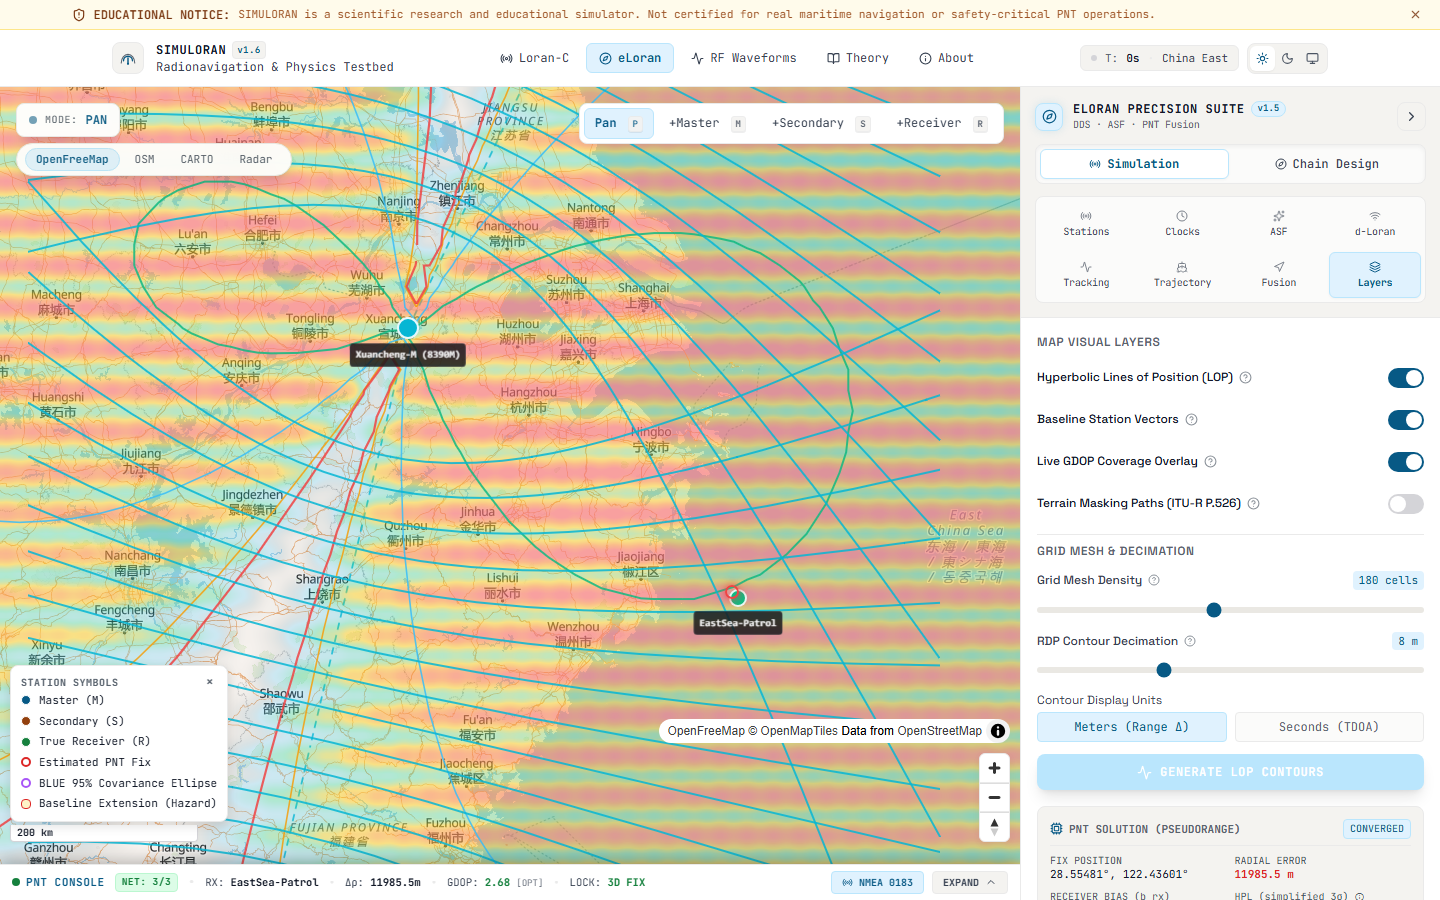
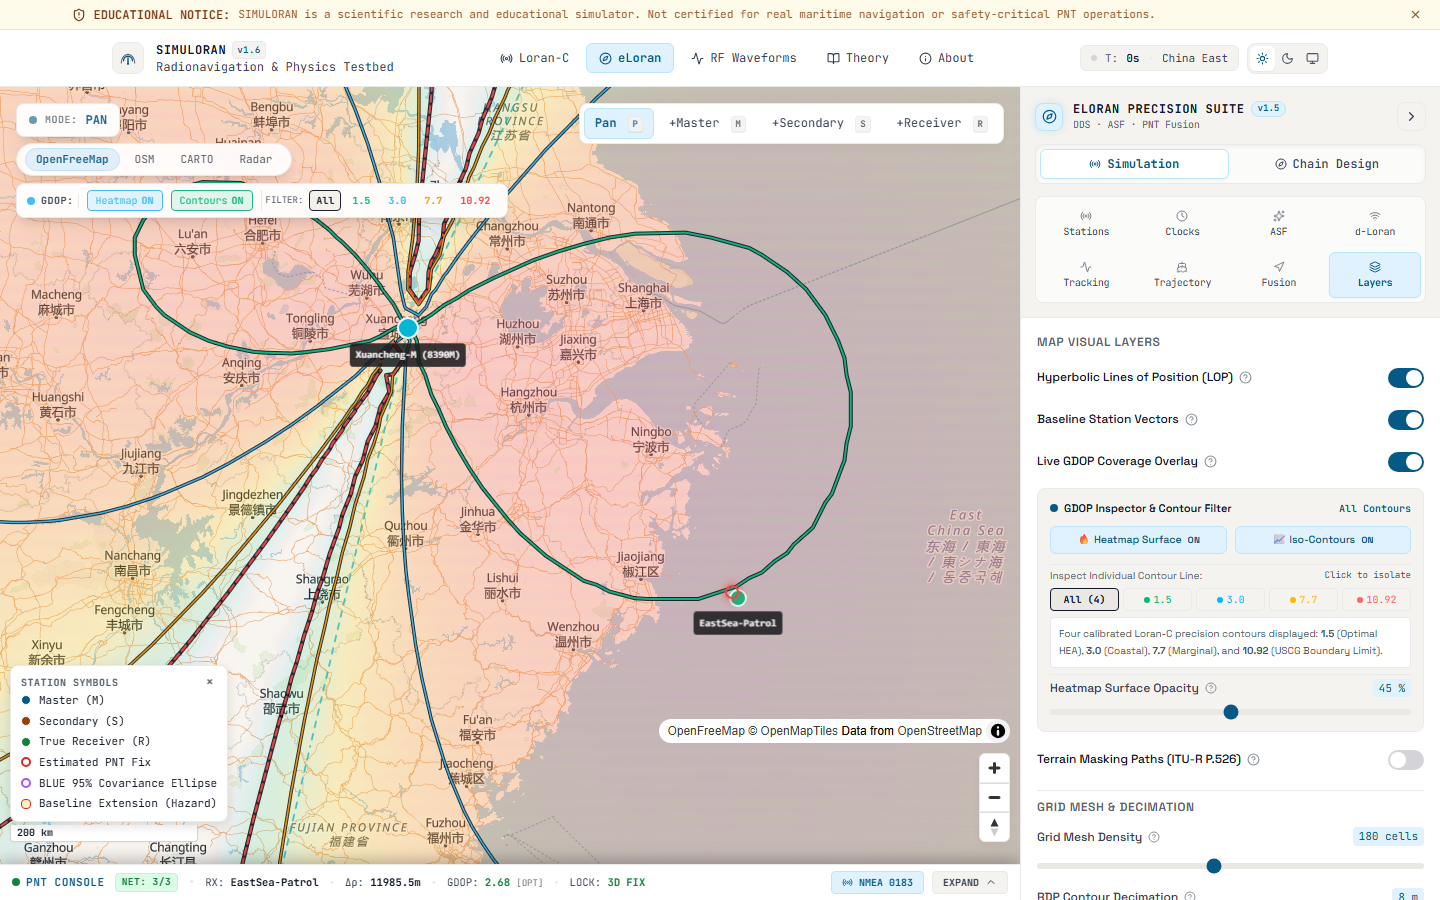
docs: update README and visual guide with static GDOP coverage and inspector controls

diff --git a/e2e/capture-user-guide.spec.js b/e2e/capture-user-guide.spec.js
@@ -121,20 +121,28 @@ test.describe('SimuLoran - Visual User Guide & High-Resolution Layout Capture', 
     // Switch to Layers tab
     const layersTab = page.locator('button[aria-label="Layers"]');
     await layersTab.click();
-    await page.waitForTimeout(1000);
+    await page.waitForTimeout(800);
 
     // Ensure Live GDOP Coverage Overlay is enabled
-    const gdopToggle = page.locator('input[type="checkbox"]').filter({ hasText: /GDOP/i }).or(page.locator('label:has-text("Live GDOP Coverage Overlay")'));
-    if (await gdopToggle.count() > 0) {
-      await gdopToggle.first().click().catch(() => {});
+    const gdopLabel = page.locator('label:has-text("Live GDOP Coverage Overlay")');
+    const gdopCheckbox = gdopLabel.locator('input[type="checkbox"]');
+    const isChecked = await gdopCheckbox.isChecked();
+    if (!isChecked) {
+      await gdopLabel.click();
+      await page.waitForTimeout(1500);
     }
 
-    // Trigger contour generation across China East Sea
-    const genBtn = page.locator('button:has-text("Generate LOP Contours")');
-    if (await genBtn.count() > 0) {
-      await genBtn.click();
-      await page.waitForTimeout(3500);
-    }
+    // Scroll the drawer panel to top so the inspector card and buttons are fully visible
+    await page.evaluate(() => {
+      const scrollable = document.querySelector('.overflow-y-auto');
+      if (scrollable) scrollable.scrollTop = 0;
+    });
+
+    // Wait for GDOP worker computation and MapLibre layers
+    await page.waitForFunction(() => {
+      return Boolean(window.__gdopGeoJson && window.__gdopContoursGeoJson);
+    }, { timeout: 12000 }).catch(() => {});
+    await page.waitForTimeout(2000);
 
     await ensureMapReady(page);
     await page.screenshot({ path: 'docs/assets/screenshots/07_gdop_heatmap_contours.png' });

diff --git a/README.md b/README.md
@@ -38,7 +38,7 @@ SimuLoran provides a high-density, professional dark-mode maritime radio-navigat
 
 [![Real-Time GDOP Heatmap Contours](docs/assets/screenshots/07_gdop_heatmap_contours.png)](docs/VISUAL_USER_GUIDE.md#6-geometric-dilution-of-precision-gdop-contours)
 
-*Real-time multi-station GDOP and HDOP coverage contour rasterization across the East China Sea basin computed via an off-thread Web Worker (180 cells grid density, 8 m RDP contour decimation). Renders Jet colormap contours with configurable operational threshold isolines (GDOP ≤ 1.5, 3.0, 5.0) and live convergence telemetry. [Read detailed guide →](docs/VISUAL_USER_GUIDE.md#6-geometric-dilution-of-precision-gdop-contours)*
+*Real-time multi-station GDOP and HDOP coverage contour rasterization across the East China Sea basin computed via an off-thread Web Worker (180 cells grid density, 8 m RDP contour decimation). Features geographically static coverage domains strictly anchored to transmitter baseline geometry, eliminating viewport scaling distortion during zoom/pan. Incorporates high-contrast cased vector contours, independent layer toggles (`🔥 Heatmap Surface` / `📈 Iso-Contours`), continuous opacity control, and dedicated inspection buttons for individual operational standards: Optimal HEA (GDOP ≤ 1.5), Coastal Navigation (GDOP ≤ 3.0), Ocean En-Route (GDOP ≤ 7.7), and USCG Specification Limit (GDOP ≤ 10.92, dashed). [Read detailed guide →](docs/VISUAL_USER_GUIDE.md#6-geometric-dilution-of-precision-gdop-contours)*
 
 ---
 
@@ -178,23 +178,38 @@ simuloran/
 ### 3. Cycle Slip Modeling (Boyce 2006)
 Simulates wrong-cycle selection where degraded SNR or skywave interference shifts the tracking point away from the 3rd zero crossing, introducing integer ±10 µs (~3 km) step errors.
 
+### 4. Geographically Static GDOP Coverage & Iso-Contour Inspector
+- **Transmitter Geometry Anchoring**: The GDOP calculation domain is strictly derived from the physical positions of the active master and secondary transmitters plus a calibrated baseline buffer ($[\min(\text{stations}) - 40\%, \max(\text{stations}) + 40\%]$). Completely decoupled from the camera viewport, preventing the calculation bounding box from expanding across continents or re-triggering worker jobs upon map zoom or pan.
+- **Off-Thread Matrix Evaluation & Navigable Clamping**: Evaluates direction cosines and the hyperbolic geometry $\mathbf{H}$-matrix across ~18,000 grid samples in `physicsWorker.js`. Grid points exceeding $\text{GDOP} > 15.0$ are strictly masked, eliminating phantom continent-wide haze outside the valid hyperbolic fix area.
+- **Anti-Clipping Cased Contours**: Vector isolines are drawn with a dedicated dark under-casing (`#030712`) and zero blur (`line-blur: 0`), providing razor-sharp optical contrast over both light/dark basemaps and colorful heatmap gradients without blurring or clipping into the background.
+- **Independent Component Separation**:
+  - **`🔥 Heatmap Surface`**: Independent toggle for continuous Jet-gradient precision dilution raster.
+  - **`📈 Iso-Contours`**: Independent toggle for threshold vector lines.
+  - **Surface Opacity Slider**: Continuous adjustment from 10% to 80% opacity.
+- **Dedicated Operational Standard Buttons**:
+  - `[All (4)]`: Displays all 4 operational contours simultaneously.
+  - `[🟢 1.5 HEA]`: Isolates Optimal Fix geometry ($\text{GDOP} \le 1.5$, Harbor Entrance and Approach standard).
+  - `[🔵 3.0 Coastal]`: Isolates Good Fix geometry ($\text{GDOP} \le 3.0$, Coastal Navigation standard).
+  - `[🟡 7.7 Ocean]`: Isolates Marginal Fix geometry ($\text{GDOP} \le 7.7$, Ocean En-Route standard).
+  - `[🔴 10.92 USCG Limit]`: Isolates the USCG Specification Boundary ($\text{GDOP} \le 10.92$, dashed).
+- **Dual Access Points & Zero-Latency WebGL Filtering**: Quick-access on-map floating HUD pill (`data-testid="gdop-inspector-pill"`) and full Console Drawer Layers Panel (`data-testid="gdop-inspector-card"`). Interactive filtering and visibility toggles execute in 0 ms via MapLibre WebGL paint/filter properties with zero worker re-evaluations.
 
-### 4. Live Additional Secondary Factor (ASF) Heatmap Layer
+### 5. Live Additional Secondary Factor (ASF) Heatmap Layer
 - **Dual Physical Quantity Overlay**: Switchable between propagation delay ($\mu\text{s}$, $0\text{–}3\ \mu\text{s}$ dynamic range mapped to Jet colormap) and groundwave field attenuation ($\text{dB}$, $0\text{–}60\text{ dB}$ loss mapped to Viridis colormap).
 - **Asynchronous Worker Rendering**: Utilizes `gridWorker.js` with transferable `Float32Array` memory buffers for smooth, debounced (300 ms) parameter updates without UI stutter.
 - **Iso-Contour Overlays**: Canvas-rendered equi-delay (0.5 µs) and equi-attenuation (10 dB) contour rings with configurable layer opacity (0–100%) and grid resolution (20×20 to 80×80).
 
-### 5. Receiver Tracking Loop Simulation (PLL & DLL)
+### 6. Receiver Tracking Loop Simulation (PLL & DLL)
 - **Standard Zero Crossing (SZC) Tracking**: Closed-loop simulation tracking the 3rd positive-going zero crossing (30 µs) using the 15 µs ratio test ($e(15)/e(30) \approx 0.397$).
 - **State Machine Architecture**: Real-time transition between `ACQUIRING` (phase-lock search), `LOCKED` (sub-microsecond tracking jitter via Rhee et al. 2021 noise model), and `CYCLE_SLIP` states.
 - **Envelope-to-Cycle Difference (ECD) Sparkline**: 50-GRI rolling time-history chart displaying microsecond tracking error, phase jitter, and cycle slip events.
 
-### 6. Station Failure & Constellation Integrity
+### 7. Station Failure & Constellation Integrity
 - **Per-Transmitter Operating Modes**: Real-time toggling of stations between `NOMINAL`, `DEGRADED` (inflated observation noise simulating aging transmitters), and `FAILED` (complete transmitter loss).
 - **Dynamic GDOP Matrix Exclusion**: Failed stations are dynamically dropped from the geometry $\mathbf{H}$-matrix with warning indicators when fewer than 2 secondaries remain (hyperbolic fix degenerate).
 - **Hazard Coverage Overlay**: Automatically renders a 250 km hatched red loss-of-coverage exclusion circle centered on failed transmitters.
 
-### 7. Multi-Sensor GNSS / eLoran BLUE Fusion & Error Ellipses
+### 8. Multi-Sensor GNSS / eLoran BLUE Fusion & Error Ellipses
 **Best Linear Unbiased Estimator (BLUE)**: Fuses independent eLoran and GNSS positioning solutions via inverse-covariance weighting:
 
 $$
@@ -204,7 +219,7 @@ $$
 - **$2.45\sigma$ (95% Confidence) Covariance Ellipses**: Renders bivariate Gaussian error ellipses on the map for eLoran (cyan), GNSS (emerald/amber/red based on spoof/jam status), and Fused (purple) solutions.
 - **Aviation Horizontal Protection Level (HPL)**: Continuous HPL calculation with real-time RNAV RNP 0.3 (556 m) and APV approach (40 m) alert limit threshold compliance gauges.
 
-### 8. Terrain Masking & Knife-Edge Obstacle Diffraction (ITU-R P.526)
+### 9. Terrain Masking & Knife-Edge Obstacle Diffraction (ITU-R P.526)
 - **Great-Circle Elevation Profiles**: Evaluates deterministic offline regional terrain geomorphology profiles between transmitter towers and receiver antennas with zero remote API latency or network timeouts.
 - **Fresnel-Kirchhoff Diffraction Engine**: Evaluates clearance parameter $v$ and calculates knife-edge path loss $J(v)$ using the Nurul-Saunders piecewise approximation, estimating excess diffracted propagation delay $\tau_{\text{excess}}$.
 - **Vector Map Visualization**: Highlights clear paths in solid emerald green and obstructed links (>15 dB loss) in dashed high-visibility red.
@@ -212,16 +227,16 @@ $$
 ---
 
 
-### 9. Software-Defined Radio (SDR) Baseband & Web Worker DSP
+### 10. Software-Defined Radio (SDR) Baseband & Web Worker DSP
 - **100 kHz Baseband Synthesizer**: Generates synthetic, phase-coded I/Q time-domain baseband samples directly in a dedicated background Web Worker (`sdrWorker.js`).
 - **Interactive Oscilloscope & Spectral Waterfall**: 60 FPS hardware-accelerated canvas waterfall display with dual-trace Digital Storage Oscilloscope (DSO) and matched filter envelope detection.
 - **Synthetic Audio Demodulation**: Listen to simulated receiver audio outputs across variable SNR conditions with zero DOM-thread blocking.
 
-### 10. Offline Elevation & Topographic Modeling
+### 11. Offline Elevation & Topographic Modeling
 - **Deterministic Offline Terrain**: Generates realistic coastal terrain profiles using multi-octave Perlin-Simplex synthesis, providing 100% offline capability without external digital elevation model (DEM) tile dependencies.
 - **Fresnel Clearance & Path Profiling**: Live visualization of the 1st Fresnel zone clearance ellipse between any transmitter and receiver pair.
 
-### 11. Desktop Electron & Production Containerization
+### 12. Desktop Electron & Production Containerization
 - **Cross-Platform Desktop App**: Packaged with Electron 33 providing native window frame controls, offline operation, and field-ready telemetry displays.
 - **Hardened Container Runtime**: Multi-stage Dockerfile and Docker Compose orchestration serving an immutable, high-security Nginx web environment.
 

diff --git a/docs/VISUAL_USER_GUIDE.md b/docs/VISUAL_USER_GUIDE.md
@@ -138,16 +138,28 @@ Custom transmitters can be engineered or edited directly on the map or via the *
 
 ## 6. Geometric Dilution of Precision (GDOP) Contours
 
-Activating the **Layers Tab** enables real-time spatial coverage and precision mapping across the maritime theater.
+Activating the **Layers Tab** or clicking the floating **GDOP HUD Ribbon** enables real-time spatial coverage and precision mapping across the maritime theater.
 
 [![GDOP Heatmap Coverage Contours](assets/screenshots/07_gdop_heatmap_contours.png)](assets/screenshots/07_gdop_heatmap_contours.png)
 
-### Heatmap Interpretation (East China Sea Basin)
-- **Green / Cyan (GDOP < 2.0)**: Optimal station geometry. Lines of position intersect near orthogonal angles (~90°), providing optimal fix accuracy across the core navigation approaches.
-- **Yellow / Orange (2.0 <= GDOP <= 5.0)**: Acceptable navigation geometry. Typical for mid-range marine coverage along the coastal boundaries.
-- **Red / Magenta (GDOP > 10.0)**: Severe geometric degradation. Occurs near baseline extensions and outer chain perimeters.
-- **Grid Density & Decimation Controls**: Real-time slider adjustment for Grid Mesh Density (180 cells) and Ramer-Douglas-Peucker (RDP) contour decimation (8 m) with selectable units (Meters Range Δ or Seconds TDOA).
-- **Coverage Masking**: Areas where received signal strength falls below receiver sensitivity (-10 dBµV/m) or where SNR < -20 dB are automatically blanked.
+### Geographically Static Coverage & Geometry Anchoring
+- **Fixed Station Geometry Domain**: The GDOP calculation bounding box is strictly anchored to the physical positions of the transmitters plus a 40% baseline margin. It never expands or recalculates when you zoom out or pan, preventing distortion or continent-wide phantom haze.
+- **Navigable Area Clamping**: Grid points are clamped to $\text{GDOP} \le 15.0$, cleanly blanking un-navigable regions outside operational coverage.
+- **Anti-Clipping Cased Contours**: Vector lines feature a dark `#030712` under-casing and zero blur (`line-blur: 0`), delivering maximum contrast against both light and dark basemaps.
+
+### Independent Layer Controls & Individual Contour Inspection
+- **Independent Component Toggles**:
+  - **`🔥 Heatmap Surface [ON/OFF]`**: Toggle the continuous Jet gradient surface independently of the isolines.
+  - **`📈 Iso-Contours [ON/OFF]`**: Toggle the vector boundary lines.
+  - **Surface Opacity Slider**: Adjust heatmap opacity continuously from 10% to 80% (default: 45%).
+- **Dedicated Inspection Buttons (Click to Isolate)**:
+  - `[All (4)]`: Displays all 4 operational contours simultaneously.
+  - `[🟢 1.5 HEA]`: Optimal Fix ($\text{GDOP} \le 1.5$, IMO/USCG Harbor Entrance and Approach standard).
+  - `[🔵 3.0 Coastal]`: Good Fix ($\text{GDOP} \le 3.0$, Coastal Navigation standard).
+  - `[🟡 7.7 Ocean]`: Marginal Fix ($\text{GDOP} \le 7.7$, Ocean En-Route standard).
+  - `[🔴 10.92 USCG Limit]`: USCG Specification Boundary ($\text{GDOP} \le 10.92$, dashed).
+- **Dual Access Points**: Access controls via the **Console Drawer Layers Tab** (`data-testid="gdop-inspector-card"`) or directly via the **Floating Map HUD Ribbon** (`data-testid="gdop-inspector-pill"`).
+- **Zero-Latency WebGL Filtering**: Switching levels or toggling visibility applies directly to MapLibre WebGL layer properties with 0 ms latency, without re-running any background worker computation.
 
 > [!NOTE]
 > The GDOP rasterizer runs asynchronously in an off-thread Web Worker, guaranteeing smooth 60 FPS map panning and zooming without blocking the main browser thread.
@@ -362,9 +374,10 @@ Exhibits empirical benchmarks validating Simuloran against real-world experiment
 5. Inspect the patrol vessel icon on the map to view real-time horizontal coordinates (28.5000°N, 122.5000°E), estimated error (5.8 m), and clock bias.
 
 ### Recipe 2: How to Evaluate GDOP Coverage
-1. Open the **Layers Subsystem** tab.
+1. Open the **Layers Subsystem** tab (or click the floating **GDOP HUD Ribbon** on the map).
 2. Toggle **"Live GDOP Coverage Overlay"** to ON.
-3. Observe the colored contour zones. If GDOP exceeds 5.0 in your area of interest, open **Station Editor** and add a secondary transmitter orthogonal to the existing baseline.
+3. Use the **Contour Inspection Buttons** (`[1.5]`, `[3.0]`, `[7.7]`, `[10.92]`) to isolate specific navigation standards (e.g. HEA or Coastal limits) without background visual clutter.
+4. Adjust the **Heatmap Surface Opacity** slider to balance basemap chart readability against coverage density.
 
 ### Recipe 3: How to Diagnose a 10 µs Cycle Slip
 1. Open `/waveforms` and select the **Skywave** tab.
